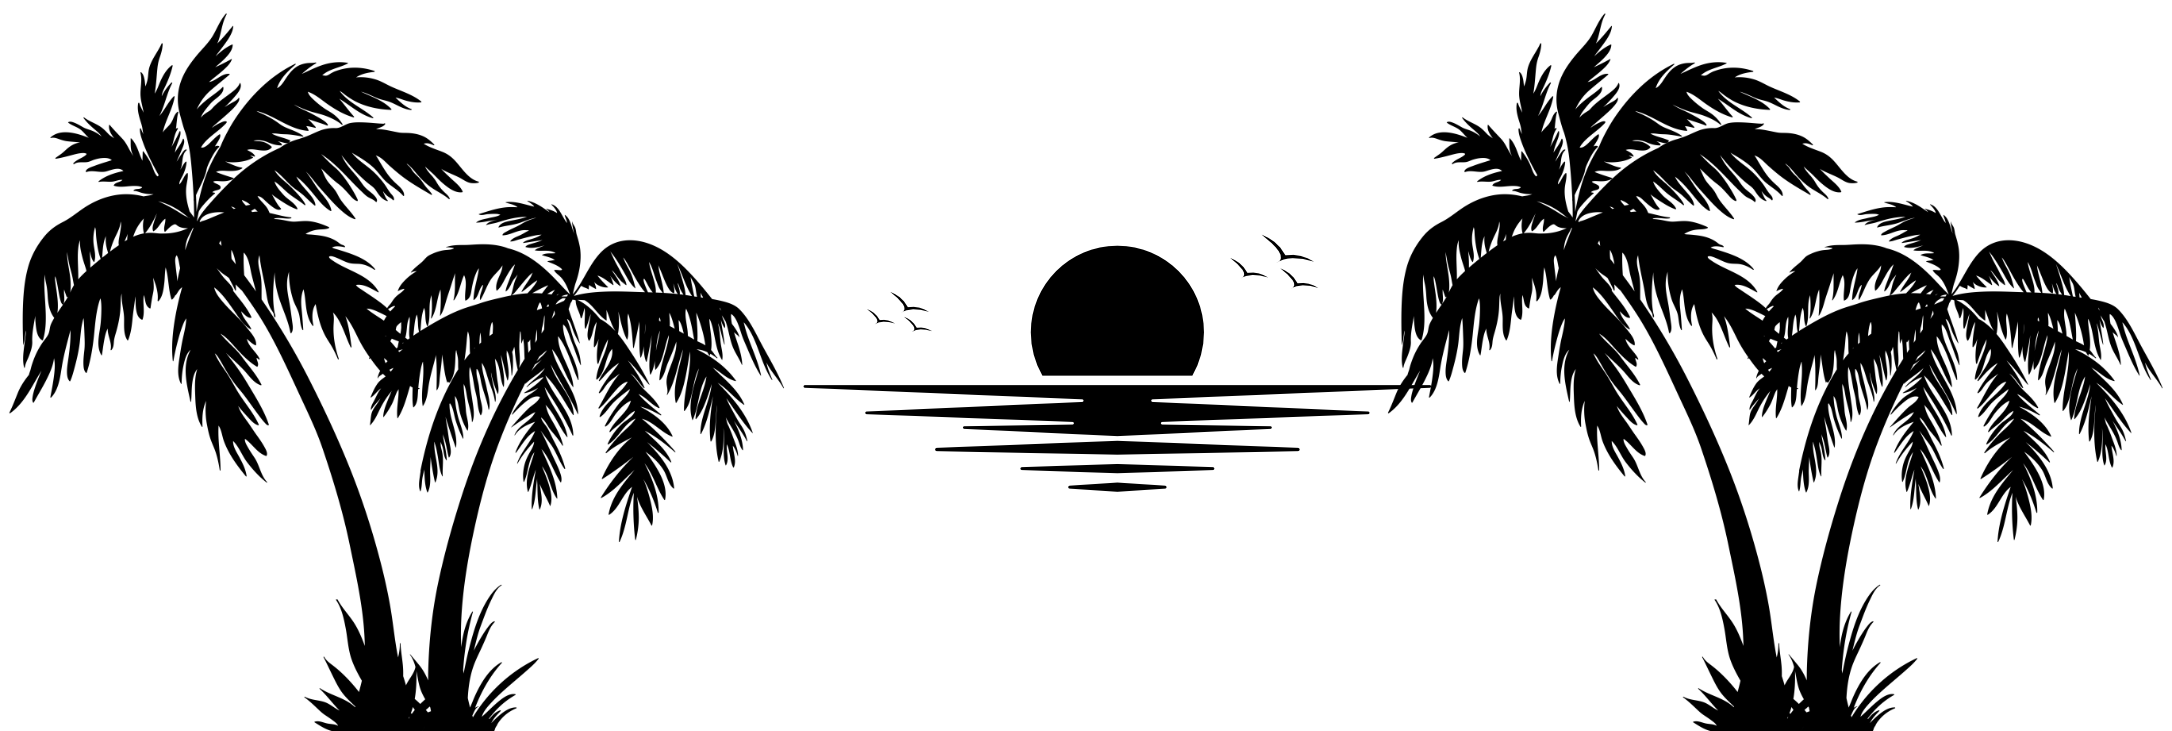
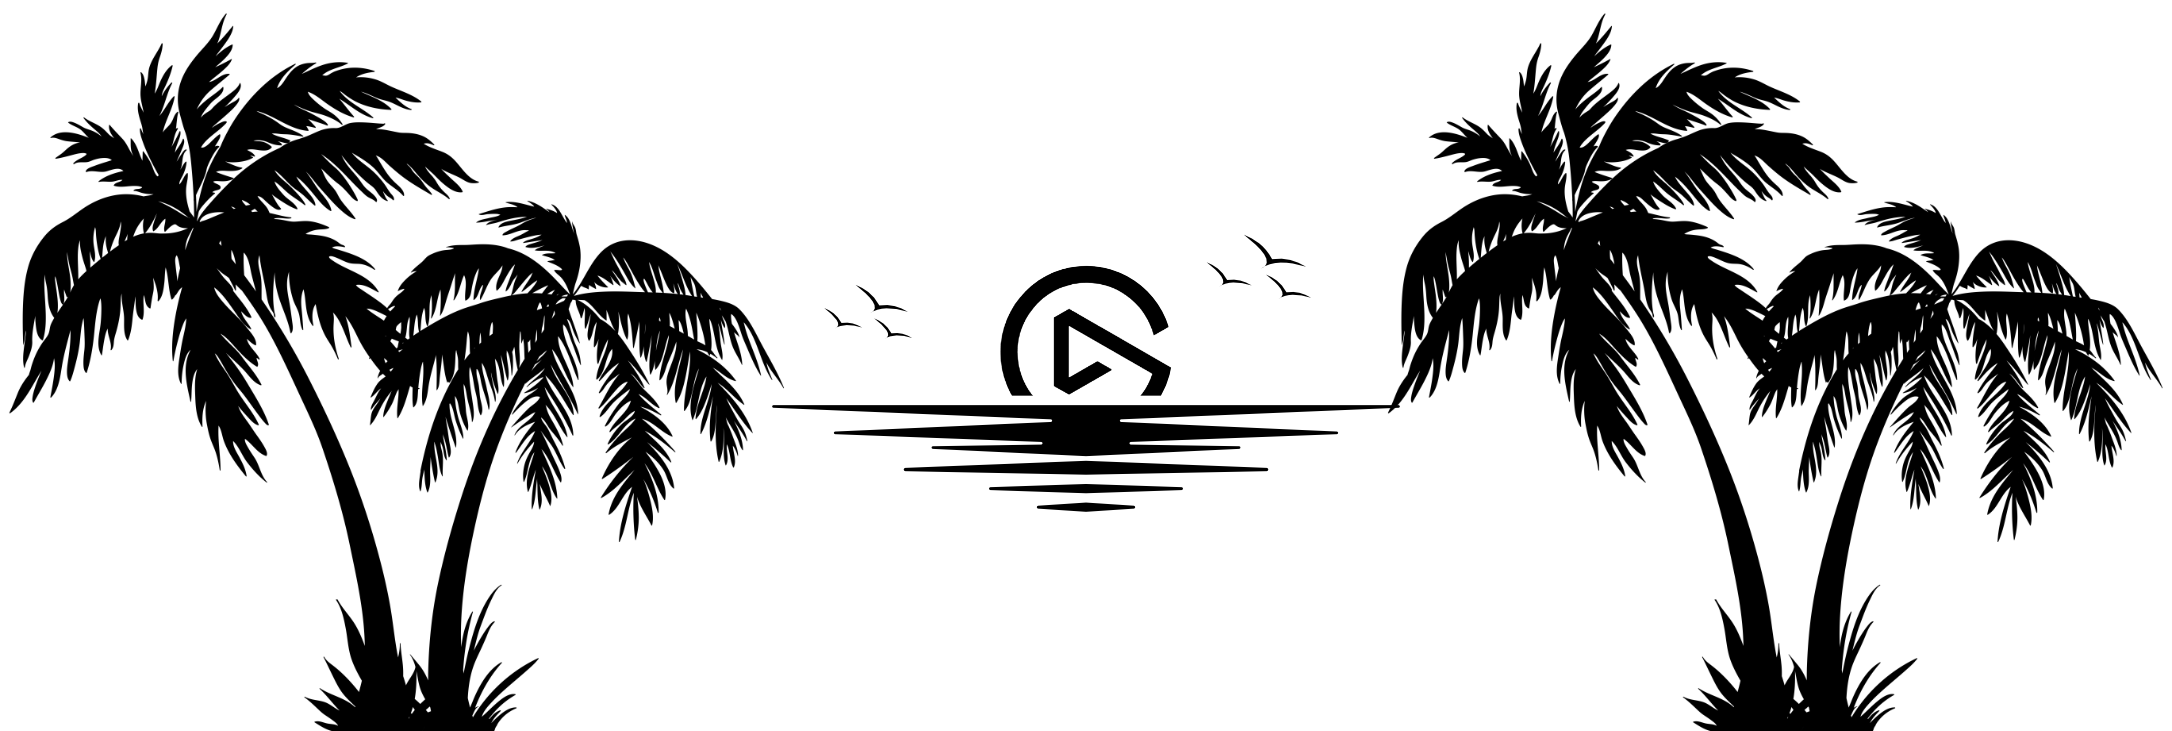
• Updated the background • Changed "Chat Decides" -> "Twitch Decides"

Changed region(s): [[0.3702, 0.3311, 0.6478, 0.7223], [0.401, 0.3912, 0.4319, 0.4514]]

diff --git a/twitch-decides/script.js b/twitch-decides/script.js
@@ -158,7 +158,8 @@ class Response {
 
 function PollCreated(data) {
 	// Set the question title
-	questionLabel.innerText = data.title;
+	if (data.title)
+		questionLabel.innerText = data.title;
 	
 	// Calculate total votes
 	const totalVotes = data.choices.reduce((sum, object) => {
@@ -418,7 +419,7 @@ function RunTestPoll() {
 
 		let data = {
 			"ends_at": ends.toISOString(),
-			"title": "Type /poll in chat to create a poll",
+			"title": "",
 			"choices": [
 				{
 					"id": "1",

diff --git a/twitch-decides/index.html b/twitch-decides/index.html
@@ -16,7 +16,7 @@
 			<div id="response-results-list">
 			</div>
 			<div id="question-container">
-				<div id="question-label">Type /poll to create a poll</div>
+				<div id="question-label">Type /poll in <img src="./images/twitch.png" alt="Twitch"/> chat to create a poll</div>
 				<div id="timer-label">00:00</div>
 			</div>
 		</div>

diff --git a/twitch-decides/style.css b/twitch-decides/style.css
@@ -59,3 +59,8 @@ html {
 	gap: 0.5em;
 	padding: 0% 7.5%;
 }
+
+img {
+	height: 1.5em;
+    vertical-align: middle;
+}
